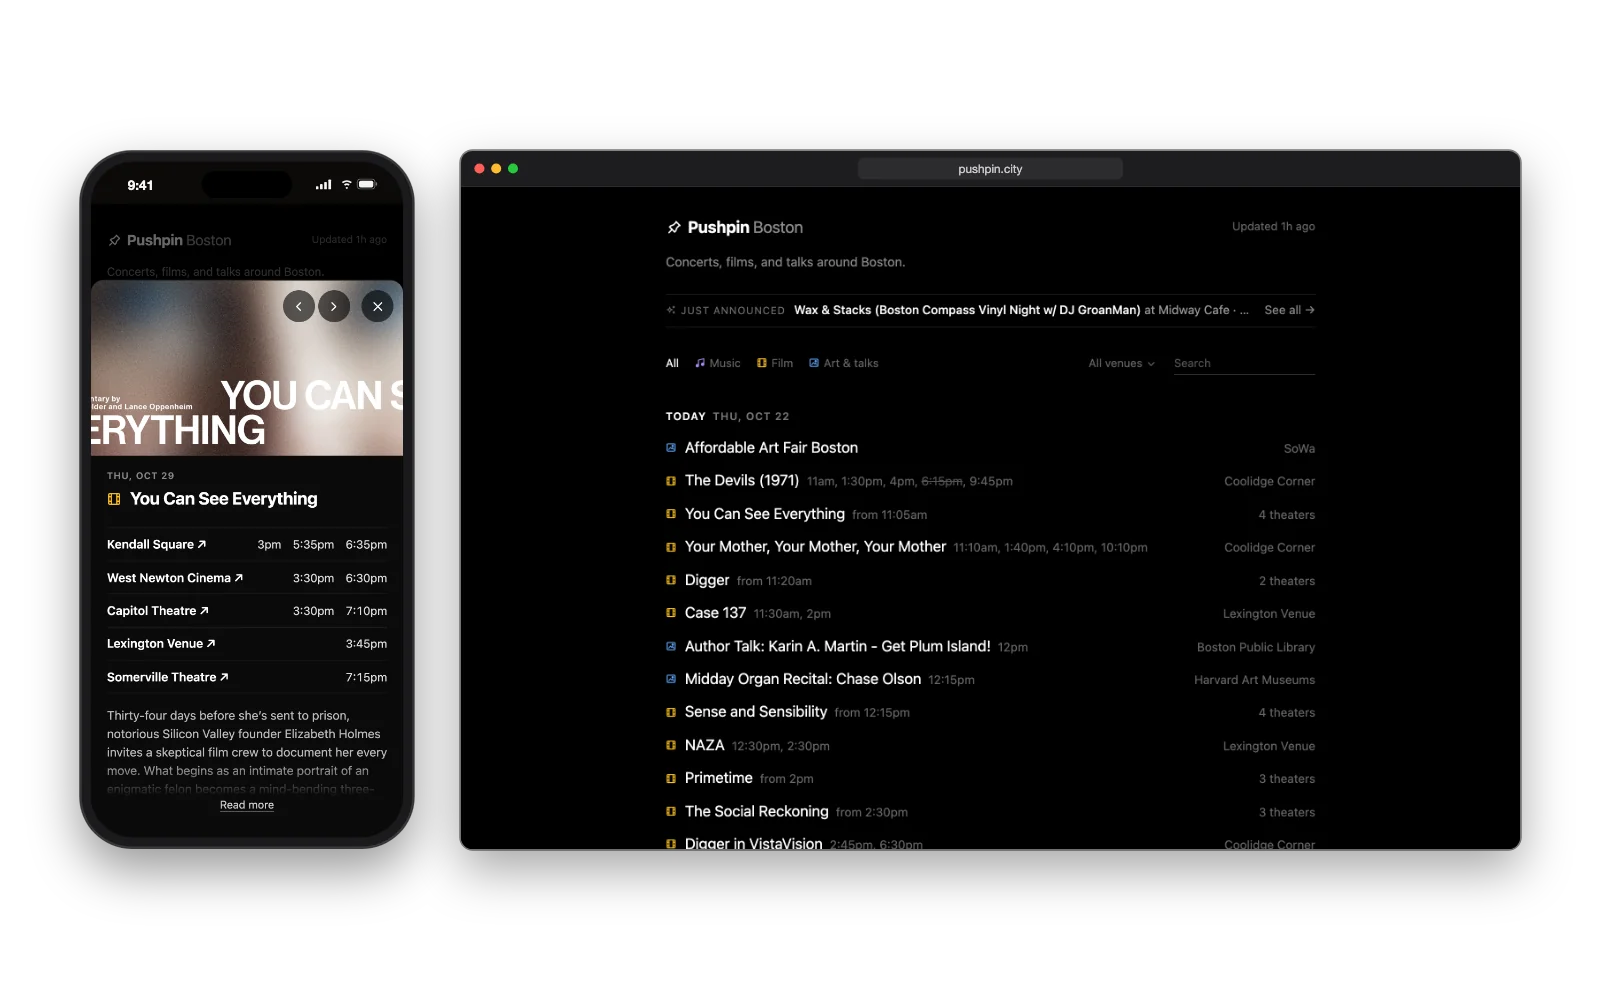
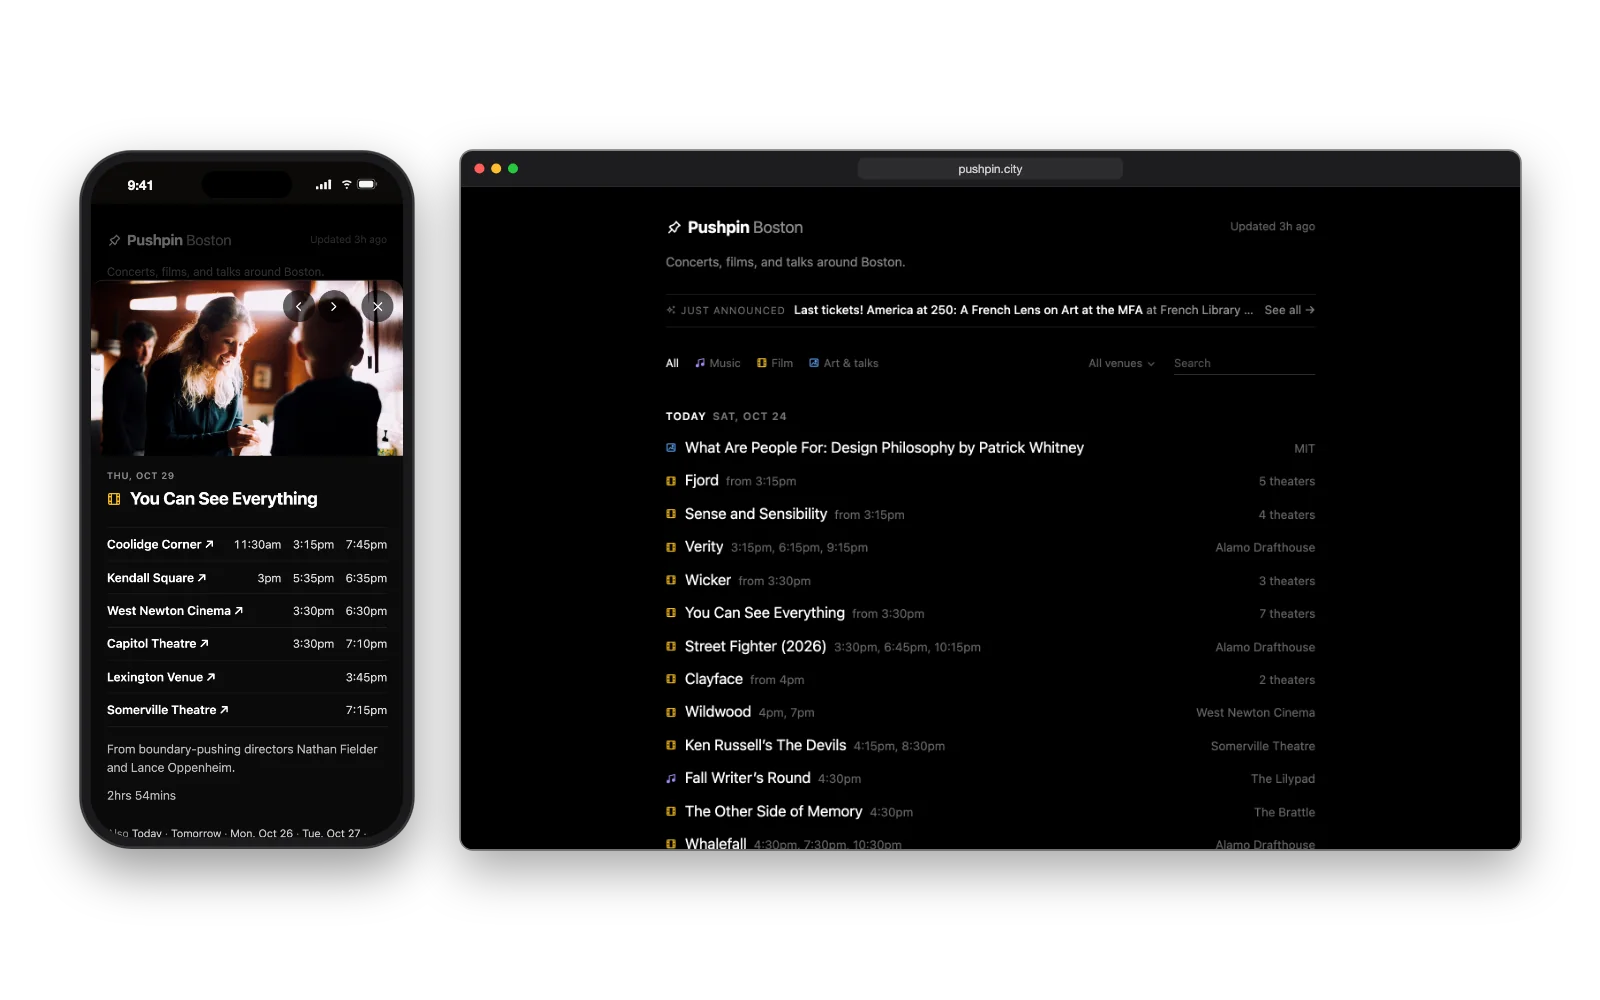
Refresh the Pushpin, Stacks and Flow Sequencer mockups
Pushpin with You Can See Everything open on the phone, now at six theaters; Stacks in light mode with its new wordmark and Anika Rao in the demo; Flow Sequencer featuring Crow Pose on desktop, with the same flow open on the phone.

diff --git a/content/Index.md b/content/Index.md
@@ -16,14 +16,14 @@ Noteworthy projects I've built on my own time, from 2021 to 2026. Most are writt
 
 <div class="projects">
 <a class="project" href="https://bookstacks.app/">
-<img class="mockup" src="/screenshots/bookshelf.webp" width="1600" height="1000" decoding="async" alt="Stacks' home page in a desktop browser window: rows of recently added books and books to read next, noting which friend has each, the start of the loans list, and a Friend activity column of notes on Circe, The Overstory and The Poppy War, beside a phone open to Piranesi by Susanna Clarke, lent to Sam, with Priya and then Lena in line for it">
+<img class="mockup" src="/screenshots/bookshelf.webp" width="1600" height="1000" decoding="async" alt="Stacks' home page in a desktop browser window: rows of recently added books and books to read next, noting which friend has each, the start of the loans list, and a Friend activity column of notes on Circe, The Overstory and The Poppy War, beside a phone open to Piranesi by Susanna Clarke, lent to Sam, with Anika and then Lena in line for it">
 <h3>Stacks <span class="project-year">2023–2026</span></h3>
 <p>A lending library for your own books: catalog what you own, connect with friends, and lend and borrow.</p>
 <p class="project-tech">Remix · Prisma · SQLite · Tailwind CSS · Fly.io</p>
 </a>
 <a class="link-button project-case" href="/stacks">Read the case study →</a>
 <a class="project" href="https://pushpin.city/boston/">
-<img class="mockup" src="/screenshots/pushpin.webp" width="1600" height="1000" loading="lazy" decoding="async" alt="Pushpin Boston in a desktop browser window, listing today's films, concerts and talks with their times and venues, beside a phone showing one film, You Can See Everything, open with a still from it and its showtimes at five theaters">
+<img class="mockup" src="/screenshots/pushpin.webp" width="1600" height="1000" loading="lazy" decoding="async" alt="Pushpin Boston in a desktop browser window, listing today's films, concerts and talks with their times and venues, beside a phone showing one film, You Can See Everything, open with a still from it and its showtimes at six theaters">
 <h3>Pushpin <span class="project-year">2026</span></h3>
 <p>Concerts, films and talks around Boston, the Bay Area and Western Mass, gathered from venues' own listings. I'm its developer and maintainer.</p>
 <p class="project-tech">Python · GitHub Actions · GitHub Pages</p>
@@ -37,7 +37,7 @@ Noteworthy projects I've built on my own time, from 2021 to 2026. Most are writt
 </a>
 <a class="link-button project-case" href="/bounce">Read the case study →</a>
 <a class="project" href="https://yoga.grahamhagenah.com/">
-<img class="mockup" src="/screenshots/yoga.webp" width="1600" height="1000" loading="lazy" decoding="async" alt="Flow Sequencer's home page in a desktop browser window, with a ready-made flow to try, beside a phone showing one pose at a time: Mountain, drawn large, with its cue and 5 breaths above the player">
+<img class="mockup" src="/screenshots/yoga.webp" width="1600" height="1000" loading="lazy" decoding="async" alt="Flow Sequencer's home page in a desktop browser window, with Crow Pose as the flow to try and its poses drawn in a row, beside a phone open to that flow one pose at a time: Easy Seat, drawn large, with its cue and 8 breaths above the player">
 <h3>Flow Sequencer <span class="project-year">2026</span></h3>
 <p>Build a yoga flow one pose at a time, or play one of the ready-made flows.</p>
 <p class="project-tech">React · TypeScript · Vite · Web Speech API</p>

diff --git a/content/Projects.md b/content/Projects.md
@@ -6,14 +6,14 @@ Noteworthy projects I've built on my own time, from 2021 to 2026. Most are writt
 
 <div class="projects">
 <a class="project" href="https://bookstacks.app/">
-<img class="mockup" src="/screenshots/bookshelf.webp" width="1600" height="1000" decoding="async" alt="Stacks' home page in a desktop browser window: rows of recently added books and books to read next, noting which friend has each, the start of the loans list, and a Friend activity column of notes on Circe, The Overstory and The Poppy War, beside a phone open to Piranesi by Susanna Clarke, lent to Sam, with Priya and then Lena in line for it">
+<img class="mockup" src="/screenshots/bookshelf.webp" width="1600" height="1000" decoding="async" alt="Stacks' home page in a desktop browser window: rows of recently added books and books to read next, noting which friend has each, the start of the loans list, and a Friend activity column of notes on Circe, The Overstory and The Poppy War, beside a phone open to Piranesi by Susanna Clarke, lent to Sam, with Anika and then Lena in line for it">
 <h2>Stacks <span class="project-year">2023–2026</span></h2>
 <p>A lending library for your own books: catalog what you own, connect with friends, and lend and borrow.</p>
 <p class="project-tech">Remix · Prisma · SQLite · Tailwind CSS · Fly.io</p>
 </a>
 <a class="link-button project-case" href="/stacks">Read the case study →</a>
 <a class="project" href="https://pushpin.city/boston/">
-<img class="mockup" src="/screenshots/pushpin.webp" width="1600" height="1000" loading="lazy" decoding="async" alt="Pushpin Boston in a desktop browser window, listing today's films, concerts and talks with their times and venues, beside a phone showing one film, You Can See Everything, open with a still from it and its showtimes at five theaters">
+<img class="mockup" src="/screenshots/pushpin.webp" width="1600" height="1000" loading="lazy" decoding="async" alt="Pushpin Boston in a desktop browser window, listing today's films, concerts and talks with their times and venues, beside a phone showing one film, You Can See Everything, open with a still from it and its showtimes at six theaters">
 <h2>Pushpin <span class="project-year">2026</span></h2>
 <p>Concerts, films and talks around Boston, the Bay Area and Western Mass, gathered from venues' own listings. I'm its developer and maintainer.</p>
 <p class="project-tech">Python · GitHub Actions · GitHub Pages</p>
@@ -27,7 +27,7 @@ Noteworthy projects I've built on my own time, from 2021 to 2026. Most are writt
 </a>
 <a class="link-button project-case" href="/bounce">Read the case study →</a>
 <a class="project" href="https://yoga.grahamhagenah.com/">
-<img class="mockup" src="/screenshots/yoga.webp" width="1600" height="1000" loading="lazy" decoding="async" alt="Flow Sequencer's home page in a desktop browser window, with a ready-made flow to try, beside a phone showing one pose at a time: Mountain, drawn large, with its cue and 5 breaths above the player">
+<img class="mockup" src="/screenshots/yoga.webp" width="1600" height="1000" loading="lazy" decoding="async" alt="Flow Sequencer's home page in a desktop browser window, with Crow Pose as the flow to try and its poses drawn in a row, beside a phone open to that flow one pose at a time: Easy Seat, drawn large, with its cue and 8 breaths above the player">
 <h2>Flow Sequencer <span class="project-year">2026</span></h2>
 <p>Build a yoga flow one pose at a time, or play one of the ready-made flows.</p>
 <p class="project-tech">React · TypeScript · Vite · Web Speech API</p>
